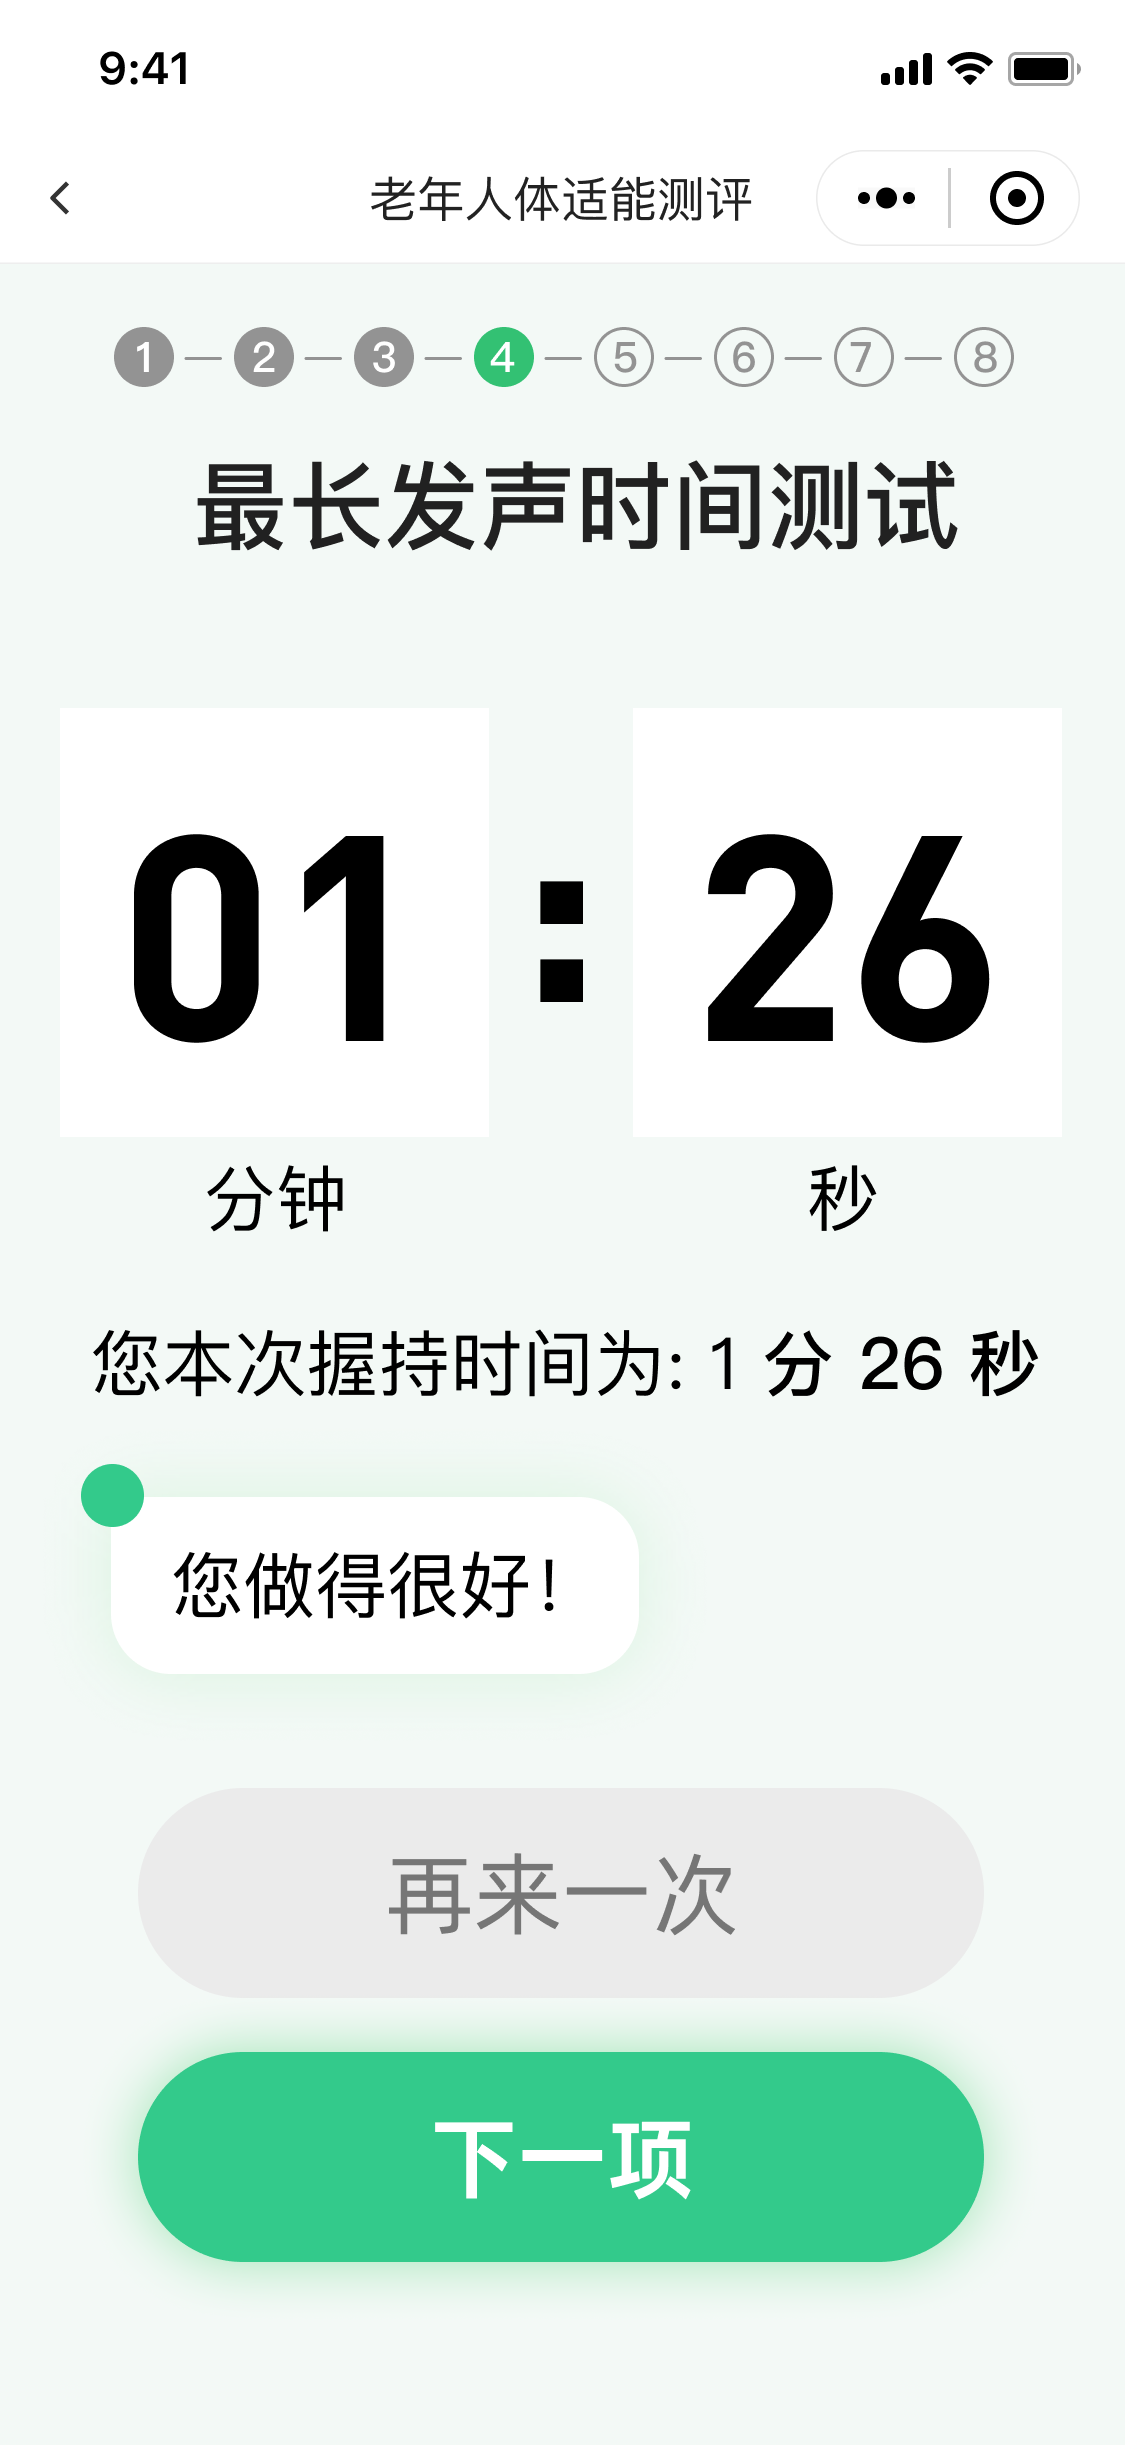
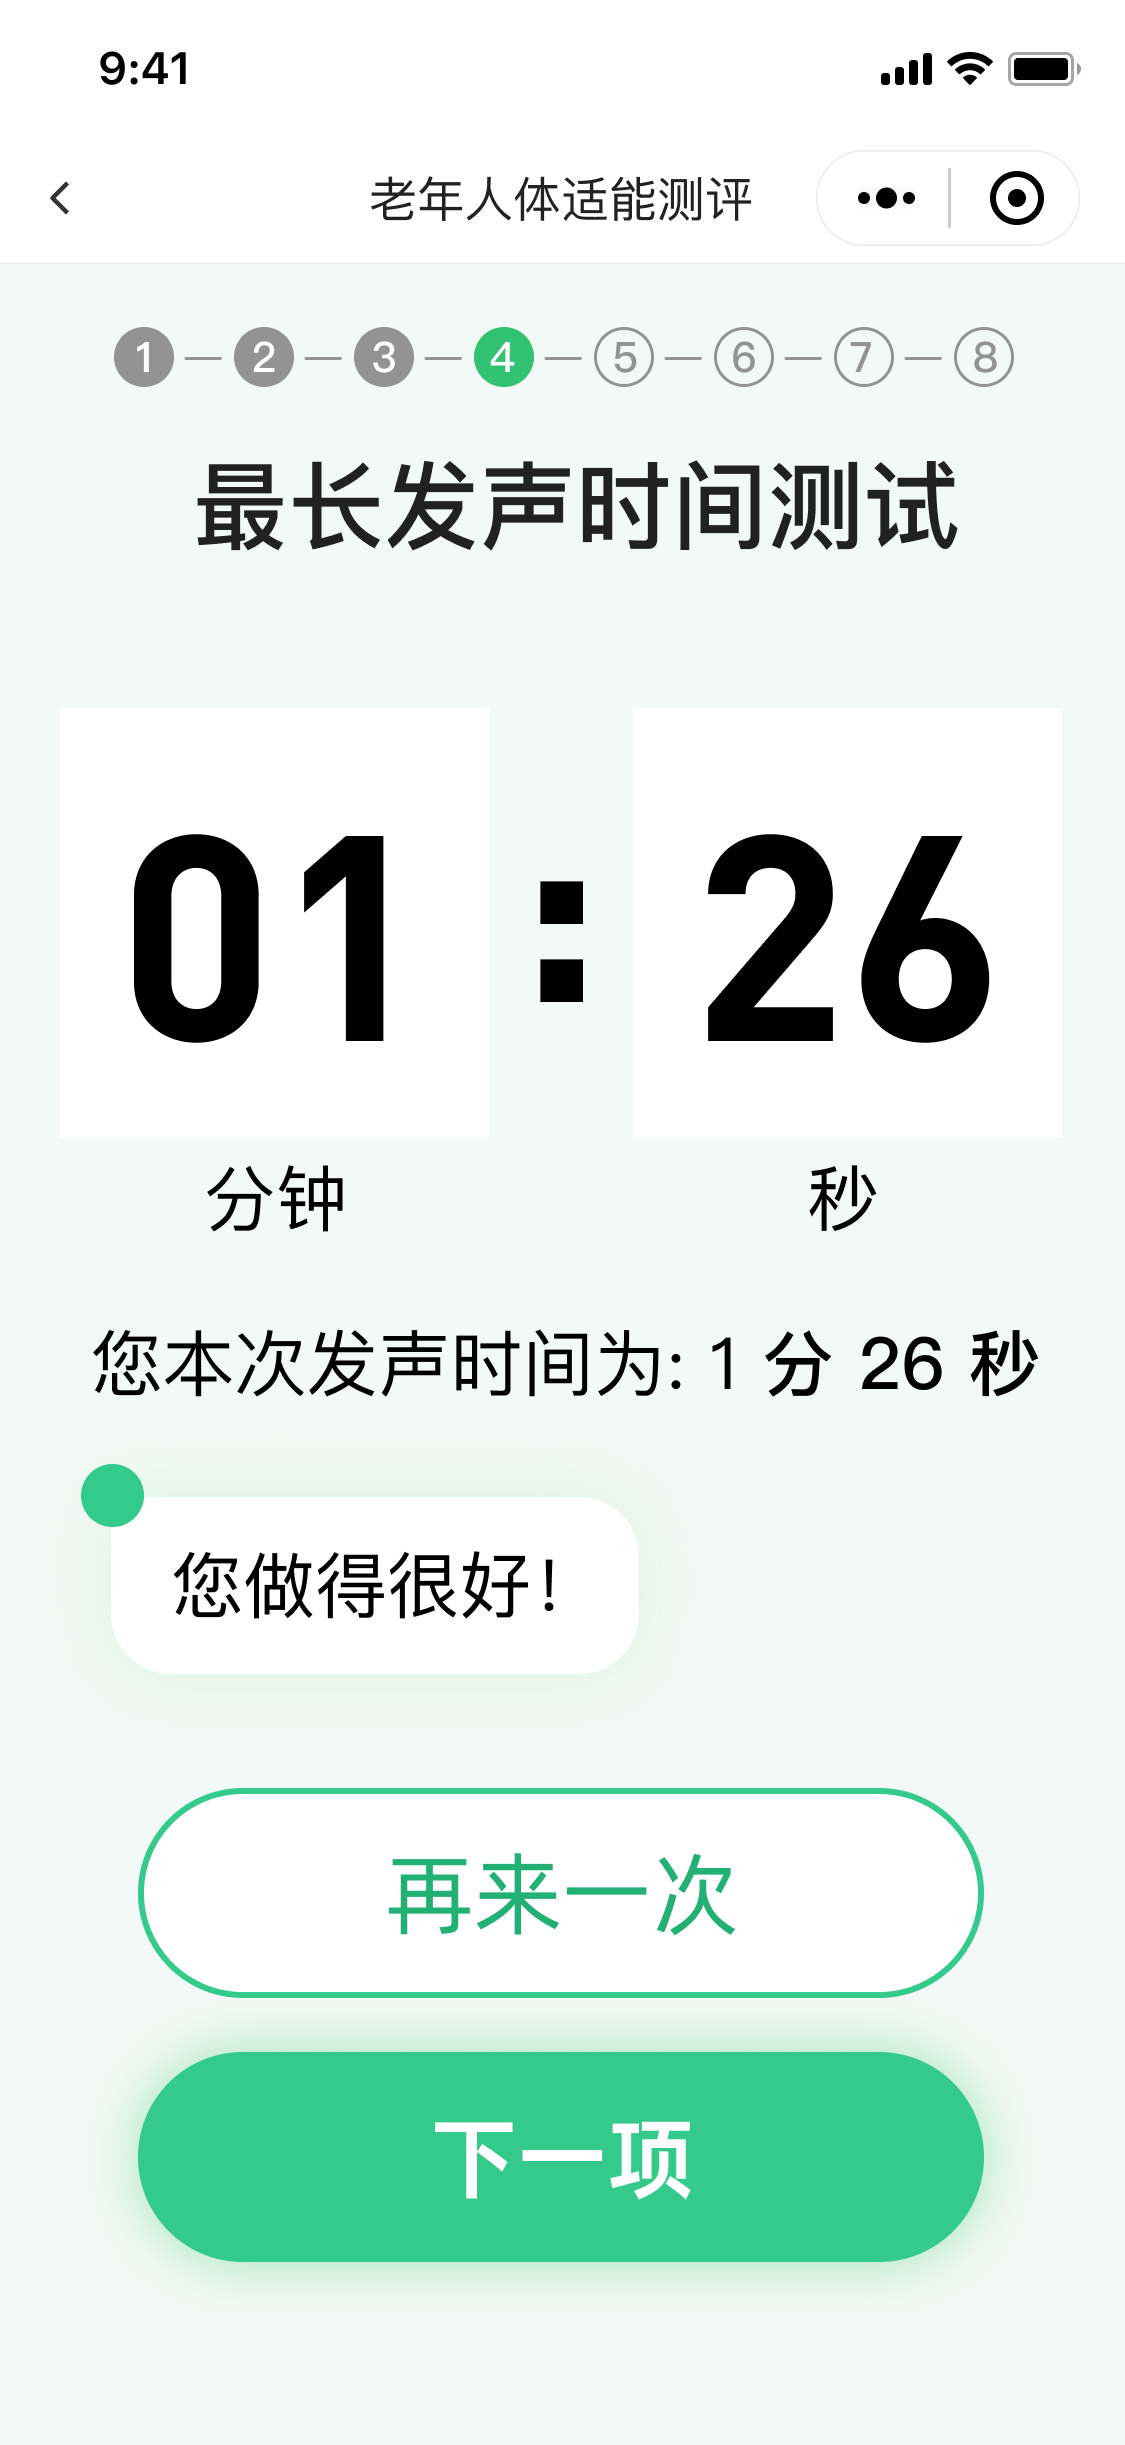
Replace voice test result screen

diff --git a/assessment-h5-demo/app.js b/assessment-h5-demo/app.js
@@ -256,7 +256,7 @@ function renderScreen() {
   testVideoOverlay.hidden = !([10, 11, 12].includes(index) && selectedTestTab !== 1);
   compactDemoCaption.hidden = !compactDemoScreens.has(index);
   loadingRingOverlay.hidden = index !== 36;
-  voiceResultCopy.hidden = index !== 18;
+  voiceResultCopy.hidden = true;
   repsControl.hidden = index !== 14;
   repsValue.textContent = selectedTestTab === 1 ? chairRepetitions : stepRepetitions;
   primaryActionHotspot.hidden = !primaryActionScreens.has(index);

diff --git a/assessment-h5-demo/index.html b/assessment-h5-demo/index.html
@@ -117,6 +117,6 @@
     </div>
     <audio id="narration" preload="auto"></audio>
   </main>
-  <script src="./app.js?v=20260804-42"></script>
+  <script src="./app.js?v=20260804-43"></script>
 </body>
 </html>
